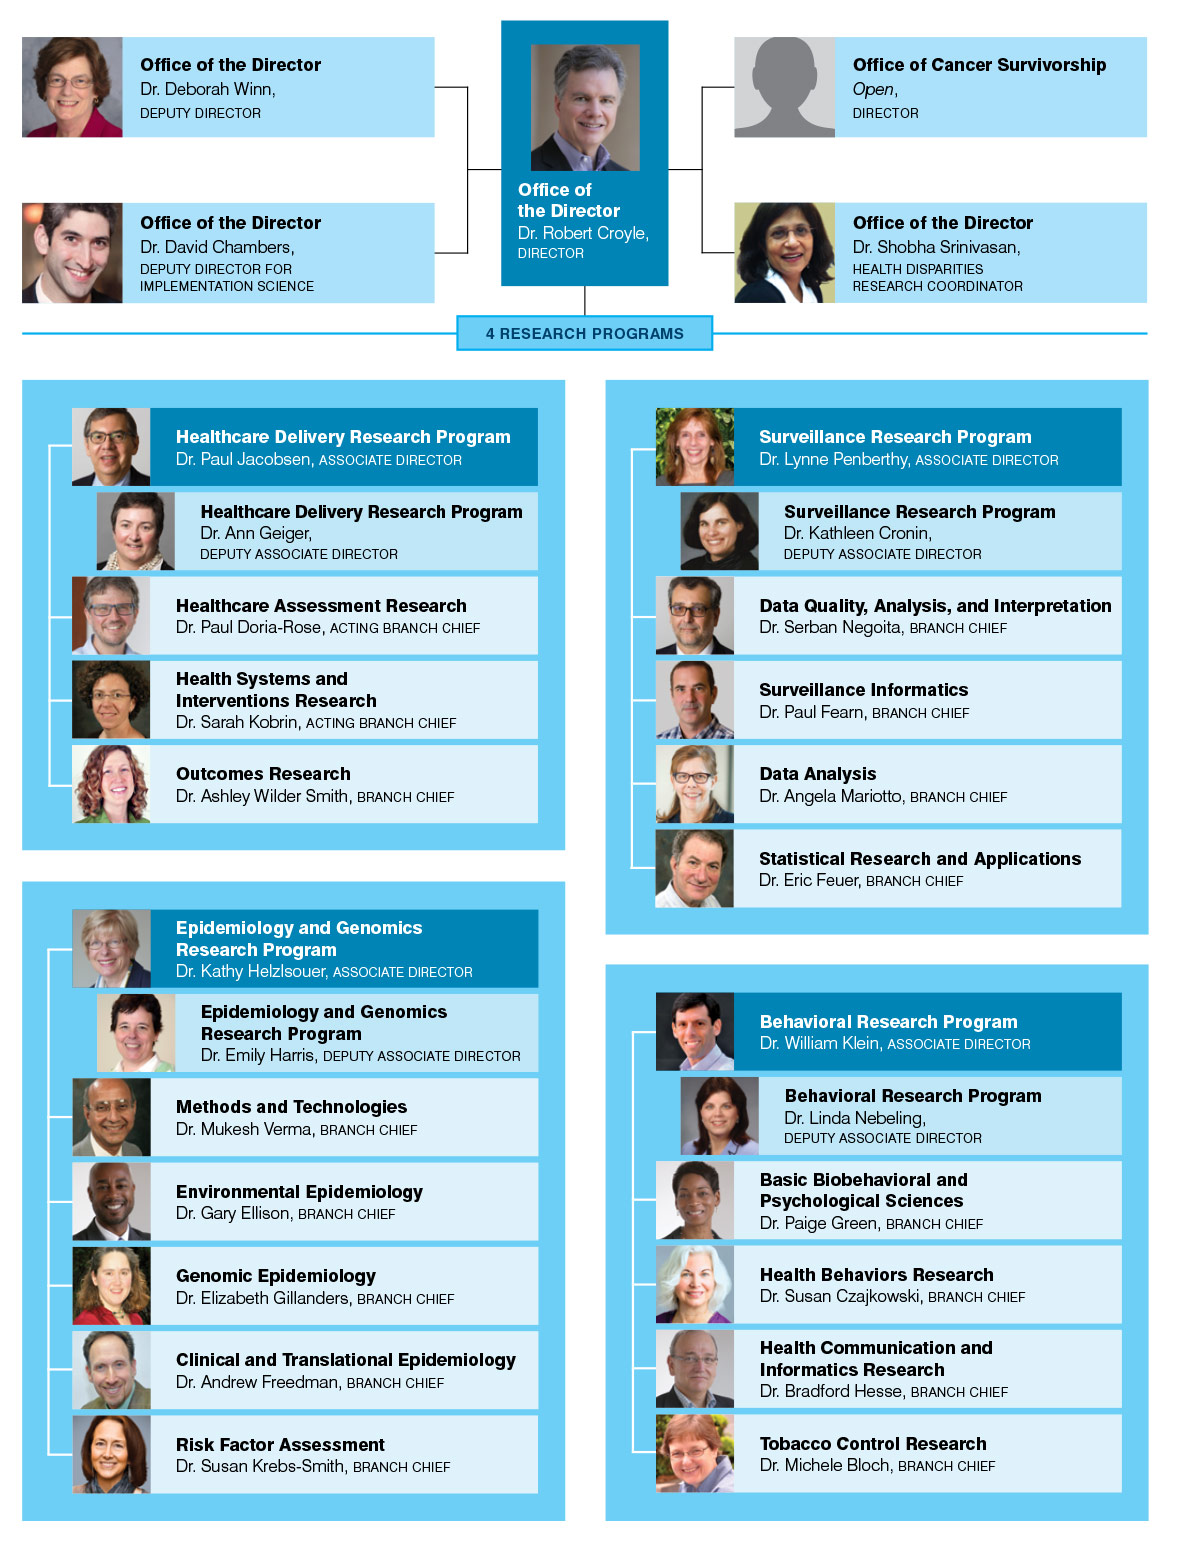
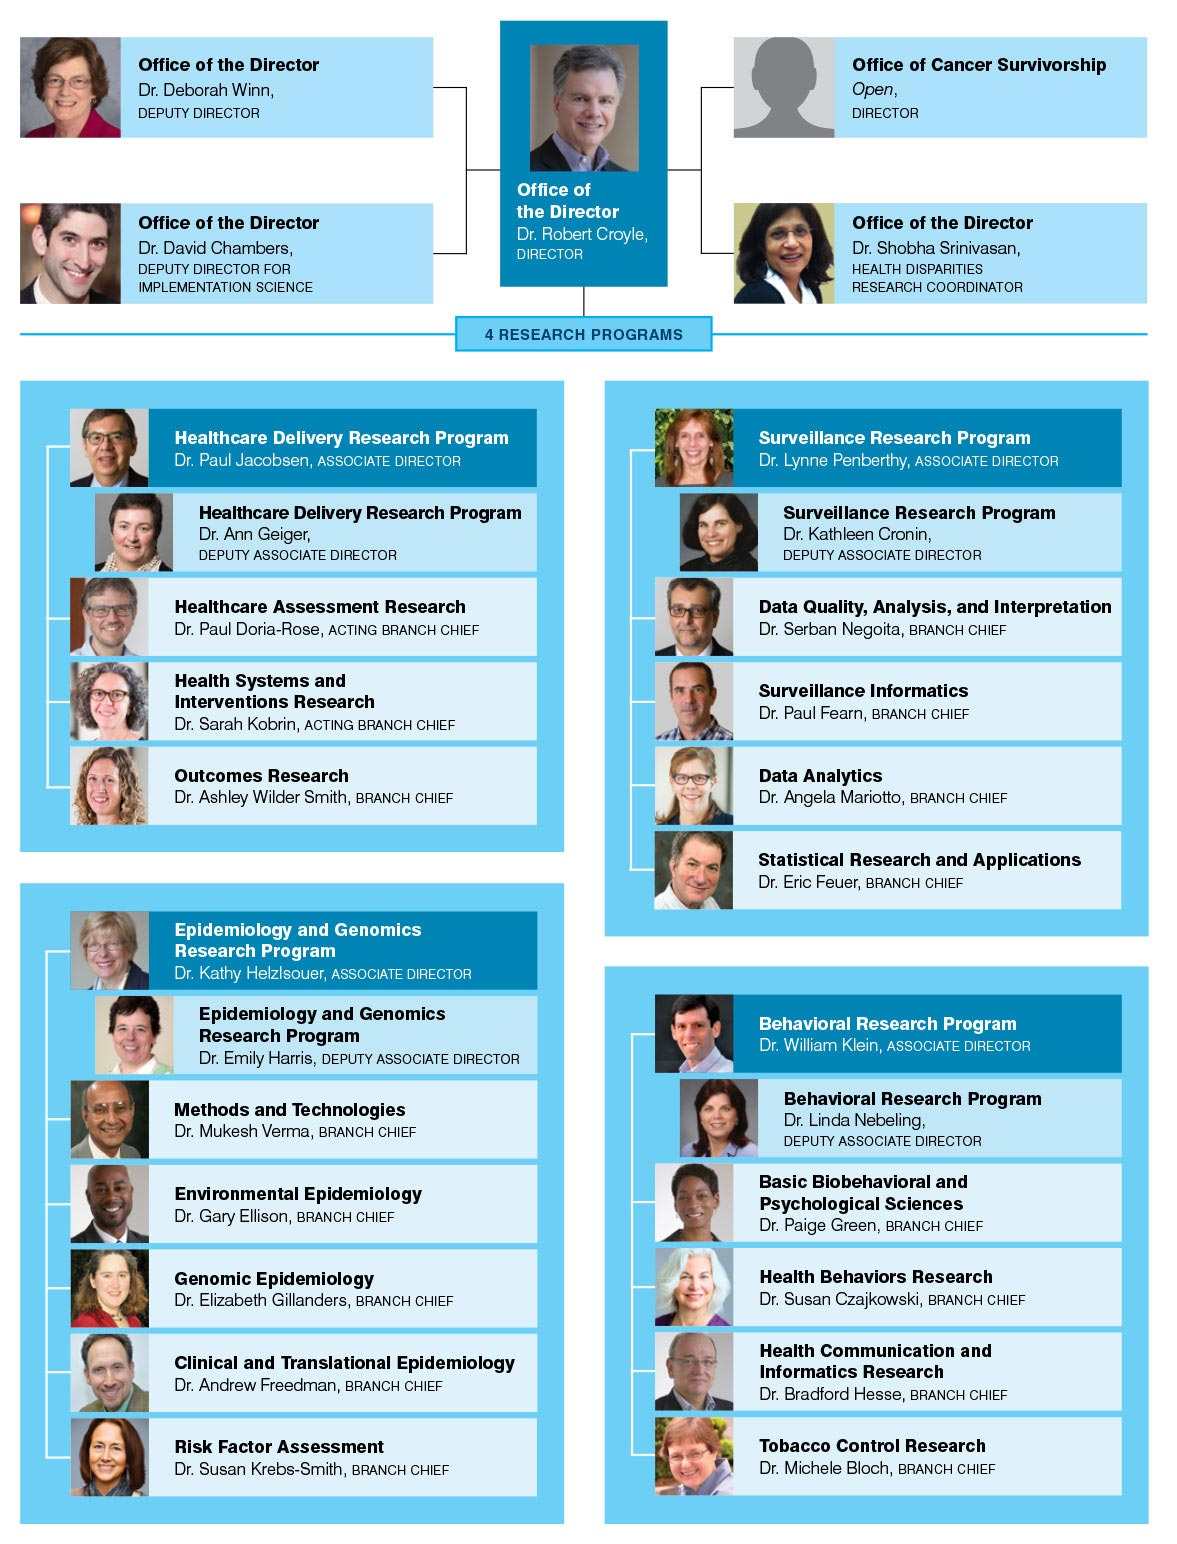
Org chart updates

diff --git a/od/org.html b/od/org.html
@@ -273,7 +273,7 @@ height="0" width="0" style="display:none;visibility:hidden" title="Google Tag Ma
                     </ul>
 					<hr>
 					<li><a href="https://surveillance.cancer.gov/">Surveillance Research Program (SRP)</a></li>
-					<p>The Surveillance Research Program (SRP) plans, directs, coordinates, and evaluates a program of cancer surveillance and health services research involving the collection and analysis of data and the assessment of the impact of health care delivery and other health system factors. The program strives to answer key questions about cancer incidence, mortality, and cancer-related health behaviors in diverse regions and populations of the U.S. The Surveillance, Epidemiology, and End Results (SEER) Program, a major component of the SRP, collects cancer data on a routine basis from designated population-based cancer registries in various areas of the country. The SRP includes the Surveillance Informatics Research Branch; the Data Quality, Analysis, and Interpretation Branch; the Data Analysis Branch; and the Statistical Research and Applications Branch.</p>
+					<p>The Surveillance Research Program (SRP) plans, directs, coordinates, and evaluates a program of cancer surveillance and health services research involving the collection and analysis of data and the assessment of the impact of health care delivery and other health system factors. The program strives to answer key questions about cancer incidence, mortality, and cancer-related health behaviors in diverse regions and populations of the U.S. The Surveillance, Epidemiology, and End Results (SEER) Program, a major component of the SRP, collects cancer data on a routine basis from designated population-based cancer registries in various areas of the country. The SRP includes the Surveillance Informatics Research Branch; the Data Quality, Analysis, and Interpretation Branch; the Data Analytics Branch; and the Statistical Research and Applications Branch.</p>
 				</ul>     
                 <!-- InstanceEndEditable -->
         </div> <!-- /.col-md-9 -->

diff --git a/od/orgchart.html b/od/orgchart.html
@@ -261,7 +261,7 @@ height="0" width="0" style="display:none;visibility:hidden" title="Google Tag Ma
 					<area shape="rect" coords="492,931,849,992" href="/brp/hbrb/index.html" alt="Health Behaviors Research Branch - Dr. Susan Czajkowski">
 					<area shape="rect" coords="492,994,848,1055" href="/brp/hcirb/" alt="Health Communication &amp; Informatics Research Branch - Dr. Bradford Hesse">
 					<area shape="rect" coords="55,933,405,992" href="https://epi.grants.cancer.gov/geb/" alt="Genomic Epidemiology - Dr. Elizabeth Gillanders">
-					<area shape="rect" coords="492,556,841,616" href="https://surveillance.cancer.gov/branches/dqaib/" alt="Data Analysis - Dr. Serban Negoita">
+					<area shape="rect" coords="492,556,841,616" href="https://surveillance.cancer.gov/branches/dqaib/" alt="Data Analytics - Dr. Serban Negoita">
 					<area shape="rect" coords="53,556,403,618" href="https://healthcaredelivery.cancer.gov/about/orb/" alt="Outcomes Research Branch - Dr. Ashley Wilder Smith" >
 					<area shape="rect" coords="54,432,404,492" href="https://healthcaredelivery.cancer.gov/about/harb/" alt="Healthcare Assessment Research - Dr. Paul Doria-Rose" >
 					<area shape="rect" coords="492,868,847,929" href="/brp/bbpsb/index.html" alt="Basic Behavioral &amp; Research Branch - Dr. Paige Green" >

diff --git a/bb/index.html b/bb/index.html
@@ -105,7 +105,7 @@ through a number of webinars and workshops.</p>
             <area shape="rect" coords="818,148,1050,259" href="https://surveillance.cancer.gov/about/bios/cronink.html" alt="Dr. Kathleen Cronin, Deputy Associate Director">
             <area shape="rect" coords="199,326,336,508" href="https://surveillance.cancer.gov/about/bios/negoita.html" alt="Data Quality, Analysis, and Interpretation: Dr. Serban Negoita, Branch Chief">
             <area shape="rect" coords="398,326,545,509" href="https://surveillance.cancer.gov/about/bios/fearnp.html" alt="Surveillance Informatics: Dr. Paul Fearn, Branch Chief">
-            <area shape="rect" coords="611,330,728,497" href="https://surveillance.cancer.gov/about/bios/mariottoa.html" alt="Data Analysis: Dr. Angela Mariotto, Branch Chief">
+            <area shape="rect" coords="611,330,728,497" href="https://surveillance.cancer.gov/about/bios/mariottoa.html" alt="Data Analytics: Dr. Angela Mariotto, Branch Chief">
             <area shape="rect" coords="808,328,926,511" href="https://surveillance.cancer.gov/about/bios/feuerr.html" alt="Statistical Methods and Modeling: Dr. Eric Feuer, Branch Chief">
             </map>
         </div>
